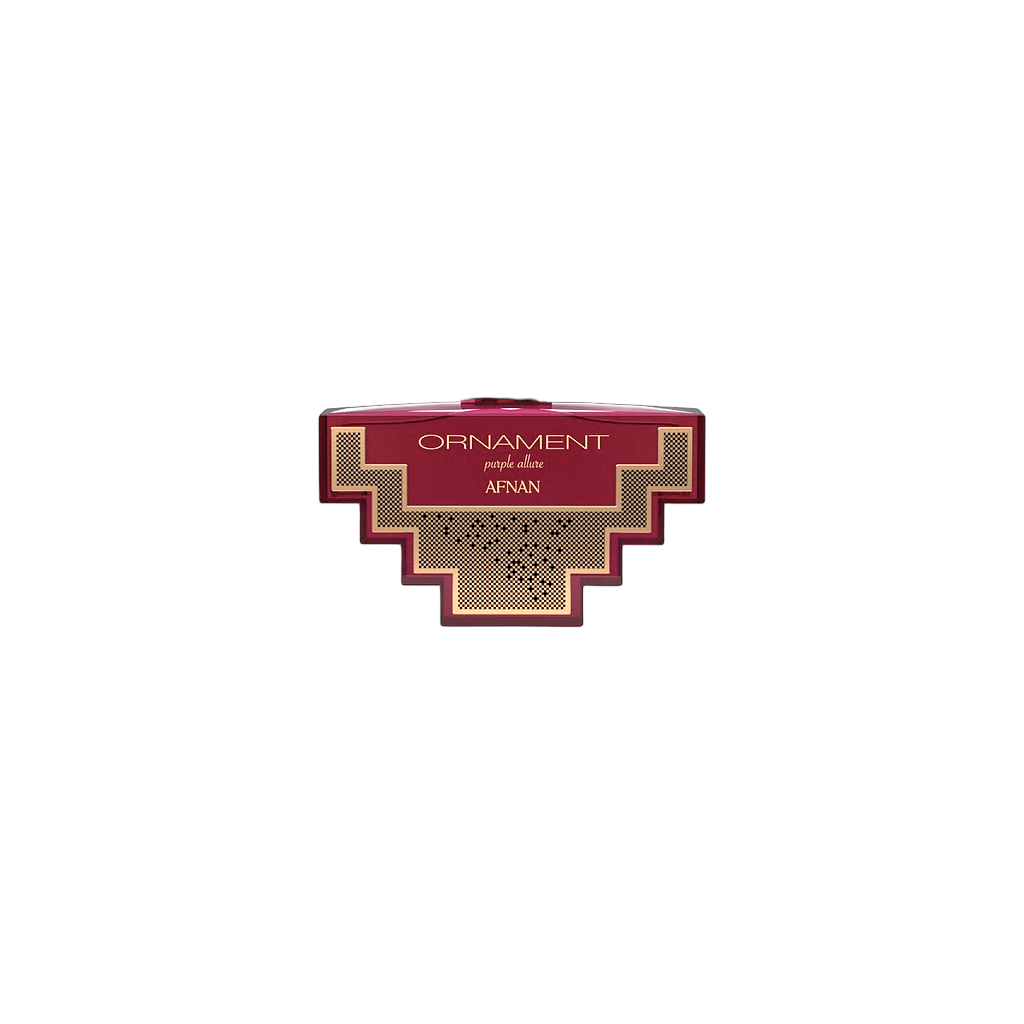
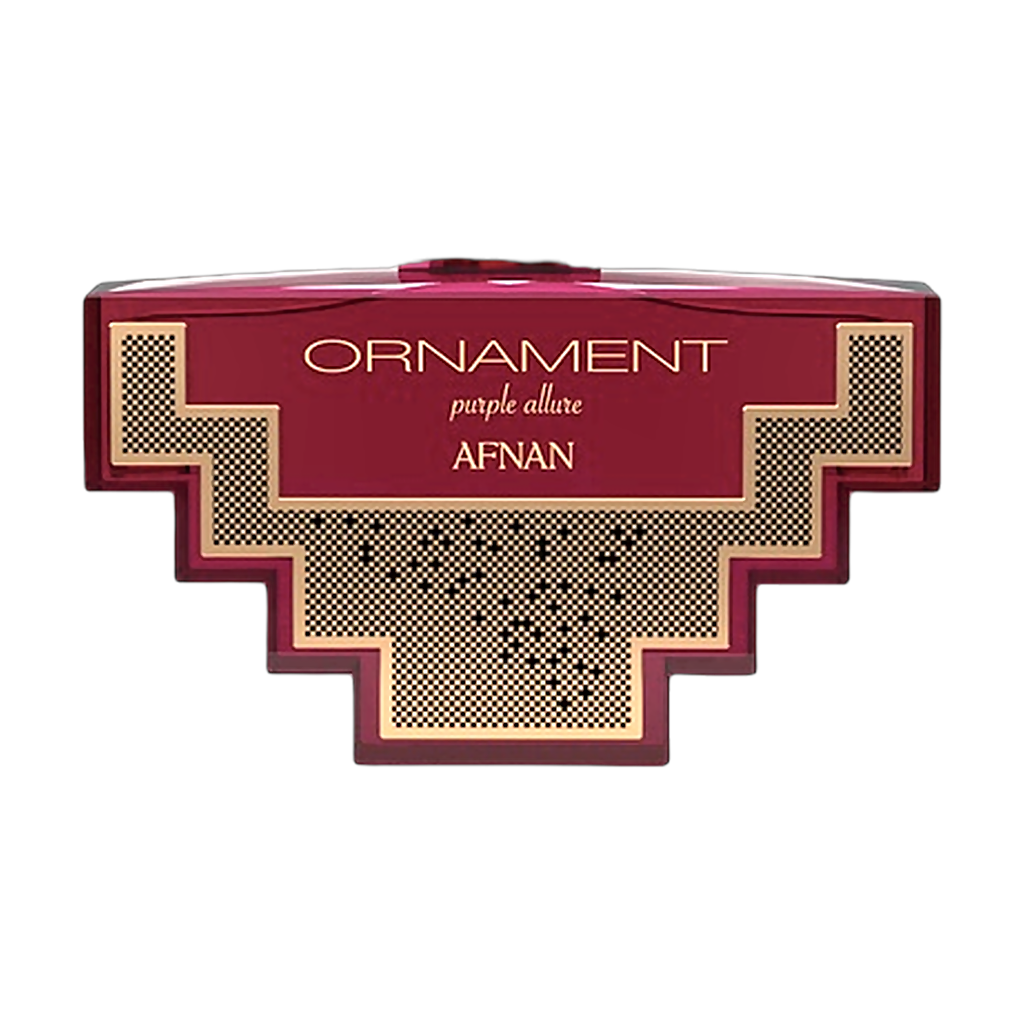
fix(images): upscale flacon cutout to fill canvas majestically and expand details view

Changed region(s): [[0.0625, 0.25, 0.9375, 0.75]]

diff --git a/Al-Warda/src/components/bookdetails/BookDetails.css b/Al-Warda/src/components/bookdetails/BookDetails.css
@@ -217,8 +217,8 @@
   justify-content: center;
   width: 100%;
   height: 100%;
-  max-width: 560px;
-  max-height: 560px;
+  max-width: 600px;
+  max-height: 600px;
   z-index: 2;
 }
 
@@ -226,8 +226,8 @@
   display: block;
   width: 100%;
   height: 100%;
-  max-width: 560px;
-  max-height: 560px;
+  max-width: 600px;
+  max-height: 600px;
   object-fit: contain;
   position: relative;
   z-index: 2;

diff --git a/Al-Warda/scripts/generate_product_images.py b/Al-Warda/scripts/generate_product_images.py
@@ -1274,8 +1274,8 @@ def preserve_original_product(source_bytes, segmentation_session, canvas_size=(1
     cutout = segment_source(source, segmentation_session)
     cutout = normalize_flacon_cutout(
         cutout,
-        target_max_h=850,
-        target_max_w=850,
+        target_max_h=880,
+        target_max_w=880,
         canvas_size=canvas_size,
         allow_upscale=allow_upscale,
     )
@@ -1338,7 +1338,7 @@ def preserve_original_product(source_bytes, segmentation_session, canvas_size=(1
     return output.getvalue(), canvas_size, original_size
 
 
-def normalize_flacon_cutout(cutout, target_max_h=850, target_max_w=850, canvas_size=(1024, 1024), allow_upscale=True):
+def normalize_flacon_cutout(cutout, target_max_h=880, target_max_w=880, canvas_size=(1024, 1024), allow_upscale=True):
     if "A" not in cutout.getbands():
         return cutout
     import numpy as np
@@ -1932,9 +1932,10 @@ def process_product(
                 text_restore_reason = "authentic_original_cutout"
         else:
             output, processed_size, original_size = preserve_original_product(
-                source_bytes, segmentation_session, allow_upscale=False
+                source_bytes, segmentation_session, allow_upscale=True
             )
             processing_method = "local_studio_photometry"
+            whether_upscaled = processed_size != original_size
 
         image_url = save_generated_image(output)
 
